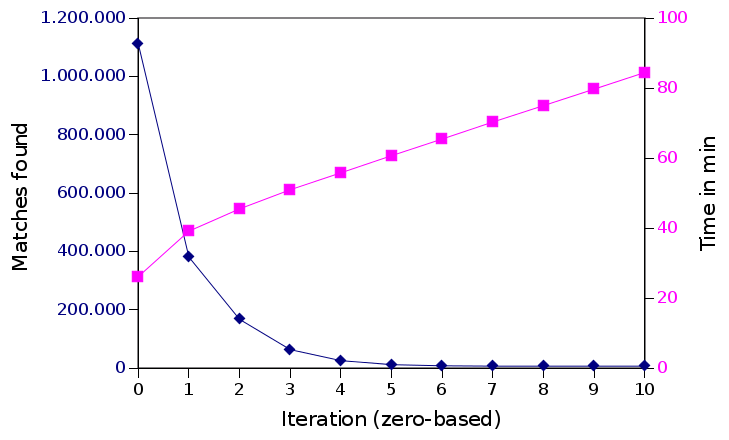
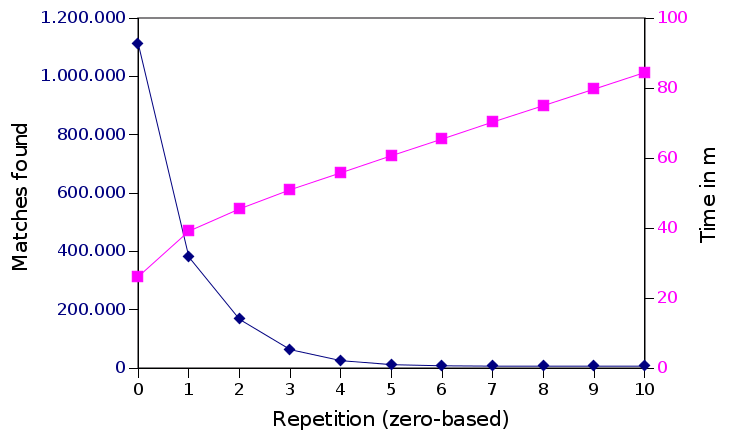
foo

Changed region(s): [[0.3621, 0.9159, 0.6941, 0.975], [0.9657, 0.2955, 0.9959, 0.5614]]

diff --git a/chapters/casestudy/casestudy.tex b/chapters/casestudy/casestudy.tex
@@ -113,9 +113,9 @@ With the calculation of the distances long interactions like login or account cr
 Those long tasks do not always represent correct user interactions.
 Figure \ref{fig:noneventaccountcreation} shows a task tree for the first part of the account creation process.
 We can see several subtasks of the task where the subtask does not model user behaviour correctly.
-\texttt{Selection} 2691 followed by by \texttt{optionality} 2692 makes no sense since the text input of the optionality should just happen after the text input field has been clicked on.
-This happens in \texttt{iteration} 1288, the first child of \texttt{selection} 2691. So the optionality with the text input should actually be in a sequence with \texttt{iteration} 1288 as its preceeding element.
-Another thing that is no real user behaviour in this example task is \texttt{sequence} 1656.
+\texttt{Selection 2691} followed by by \texttt{optionality 2692} makes no sense since the text input of the optionality should just happen after the text input field has been clicked on.
+This happens in \texttt{iteration 1288}, the first child of \texttt{selection 2691}. So the optionality with the text input should actually be in a sequence with \texttt{iteration 1288} as its preceeding element.
+Another thing that is no real user behaviour in this example task is \texttt{sequence 1656}.
 The first selection in it gives the posibility to either click or double click on an input field.
 While double clicking a text field is not an effective behaviour of a user, it is still a valid action to achieve his goal to enter his email address.
 The meaningless part is the text input on the email input field, followed by the same event again. This should either be just one event at all or be found in an iteration.
@@ -129,7 +129,7 @@ A parallel computation of the distances and a clever storage of all already calc
 \begin{figure}[h]
 	\centering
 	%\includegraphics[scale=0.7]{chapters/casestudy/noneventcreateaccount.png}
-	\includegraphics[width=\textwidth]{chapters/casestudy/noneventcreateaccount.png}
+	\includegraphics[scale=0.75]{chapters/casestudy/noneventcreateaccount.png}
 	\caption{An example for a task found by alignment task tree generation with distance calculation between non-event-tasks.}
 	\label{fig:noneventaccountcreation}
 \end{figure}
@@ -195,7 +195,8 @@ If a good solution for the large computation time of the distances is found, thi
 		   \label{tab:timesandmatchesperiteration} %TODO labelanpassen -> repetition
 	\end{table}
 	\begin{figure}[h!]
-		\includegraphics[width=\textwidth]{chapters/casestudy/hasehase.png}
+		\centering
+		\includegraphics[]{chapters/casestudy/hasehase.pdf}
 		\caption{Graph with matches found per repetition and the time per repetition.}
 		\label{fig:hasehase}
 	\end{figure}
@@ -203,8 +204,7 @@ If a good solution for the large computation time of the distances is found, thi
 
 \section{Performance Evaluation}
 To evaluate the performance of both the alignment approach and the n-gram approach we run each task tree generation algorithms against different sized subsets of the case study.
-We chose user session sets with the size of 10, 100, 1000 and the full case study. Figure \ref{fig:performance} and table \ref{tab:comparisontasktreegenerations} show the results
-of this experiment.
+We chose user session sets with the size of 10, 100, 1000 and the full case study. Figure \ref{fig:performance} and table \ref{tab:comparisontasktreegenerations} show the results of this experiment.
 We can see that the alignment approach is slower on any size of input data.
 But with the increasing number of user sessions we can observe that the computation time increases notebly.
 As a side note the memory consumption of the alignment approach for the full case study was 46.9GB at its maximum.
@@ -232,7 +232,8 @@ In summary the alignment approach is definitely more resource intensive than the
 
 
  \begin{figure}[h]
-	\includegraphics{chapters/casestudy/performance.pdf}
+	\centering
+	\includegraphics[]{chapters/casestudy/performance.pdf}
 	\caption{Scaling behaviour of both approaches.}
 	\label{fig:performance}
 \end{figure}
@@ -261,51 +262,60 @@ We find around 6000 tasks less than Harms et al. but are able to create tasks of
 	   Optionals 				& -\hspace{12pt} 	& 101 \\
 	   \bottomrule
 \end{tabular}
-\caption{}
+\caption{Comparison of the n-gram approach from Harms et al. and the alignment approach. The alignment approach finds less task but is able to detect sequences and optionals.}
 \label{tab:taskquantity}
 \end{table}
 
 The created tasks differ in quality as well. 
-Figure \ref{fig:mixedtasktree} shows a task tree that constists of two different interactions: A login and an account create procedure.
+Figure \ref{fig:mixedtasktree} shows a task tree that constists of two different interactions: A login and a password reset.
 The task starts with the tab key pressed on a textfield that is for entering user names. 
 We can see that the actual entering of the username follows at the end of this task tree. 
-First the textfield for the user name is clicked on in \texttt{iteration} 210306 and then input is entered in \texttt{iteration} 210312. 
-The task tree should have \texttt{iteration} 210306 as the first element in \texttt{sequence} 2098703.
+First the textfield for the user name is clicked on in \texttt{iteration 210306} and then input is entered in \texttt{iteration 210312}. 
+The task tree should have \texttt{iteration 210306} as the first element in \texttt{sequence 2098703}.
 The wrong order of some interactions can be observerd in other examples too.  
 
 Another notable point in this task tree is that it combines two different user interactions. 
-The input of the email address is a text input field of the page where users can create a new account while the login button allows to enter the personal area 
-after the entering the users credentials. It is not correct to merge both tasks into one task trees.  
+The input of the email address is a text input field of the page where users can reset their password while the login button allows to enter the personal area 
+after the entering the users credentials. It is not correct to merge both tasks into one task tree since they are on different pages.
+The alignment approach identifies the different actions correctly as a selection (\texttt{selection 2098704}) though. 
 
-\begin{figure}
+\begin{figure}[h]
 	\centering
-	\includegraphics[]{chapters/casestudy/mixedtasktree.png}
+	\includegraphics[scale=0.75]{chapters/casestudy/mixedtasktree.png}
 	\caption{Example for a task tree consisting of two different interactions made by the user. }
 	\label{fig:mixedtasktree}
 \end{figure}
+
+The alignment approach for task tree generation creates tasks like shown in figure \ref{fig:preprocessing_needed}.
+It is basically a selection of two sequences, each sequence has two event-tasks. 
+The order of the event-tasks in one sequence is reversed in the other sequence.
+We find numberous tasks of this kind.
+The main issue with tasks like this is that a \texttt{ValueSelection} on an \texttt{input\_checkbox} and a click on this checkbox are just one action by the user but two events are created for this action.
+This task is an example for further preprocessing of the input data. 
+Similar as in the \texttt{condenseMouseClicks} preprocessing command, all clicks on an \texttt{input\_checkbox} before or after a value selection should be discarded.
+
+\begin{figure}[h]
+	\centering
+	\includegraphics[scale=0.75]{chapters/casestudy/preprocessing_needed.png}
+	\caption{Example for a created task that shows that further data preprocessing is required.}
+	\label{fig:preprocessing_needed}
+\end{figure}
+The last issue we address in this section is the missing detection and merging of similar or equal tasks.
+Figure \ref{fig:newpassword} and figure \ref{fig:newpassword-1} both describe the same user interaction of setting a new password. 
+The tasks itself represent correct user behaviour and are positive examples for tasks generated by the alignment approach.
+The only difference is the order of the children in \texttt{selection 2611158}. 
+But since the order in a selection does not matter, both generated task trees are semantically equal.
 \begin{figure}
 	\centering
-	\includegraphics[]{chapters/casestudy/newpassword.png}
+	\includegraphics[scale=0.75]{chapters/casestudy/newpassword.png}
 	\caption{Example for a task for setting a new password (Version 1).}
 	\label{fig:newpassword}
 \end{figure}
 \begin{figure}
 	\centering
-	\includegraphics[]{chapters/casestudy/newpassword-1.png}
+	\includegraphics[scale=0.75]{chapters/casestudy/newpassword-1.png}
 	\caption{Example for a task for setting a new password (Version 2).}
 	\label{fig:newpassword-1}
-\end{figure}
-\begin{figure}
-	\centering
-	\includegraphics[]{chapters/casestudy/preprocessing_needed.png}
-	\caption{Example for a created task that shows that further data preprocessing is required.}
-	\label{fig:preprocessing_needed}
-\end{figure}
-\begin{figure}
-	\centering
-	\includegraphics[]{chapters/casestudy/login_process_repeated.png}
-	\caption{Example for a task in the middle of a login process.}
-	\label{fig:login_process_repeated}
 \end{figure}
 
 \section{Discussion}
